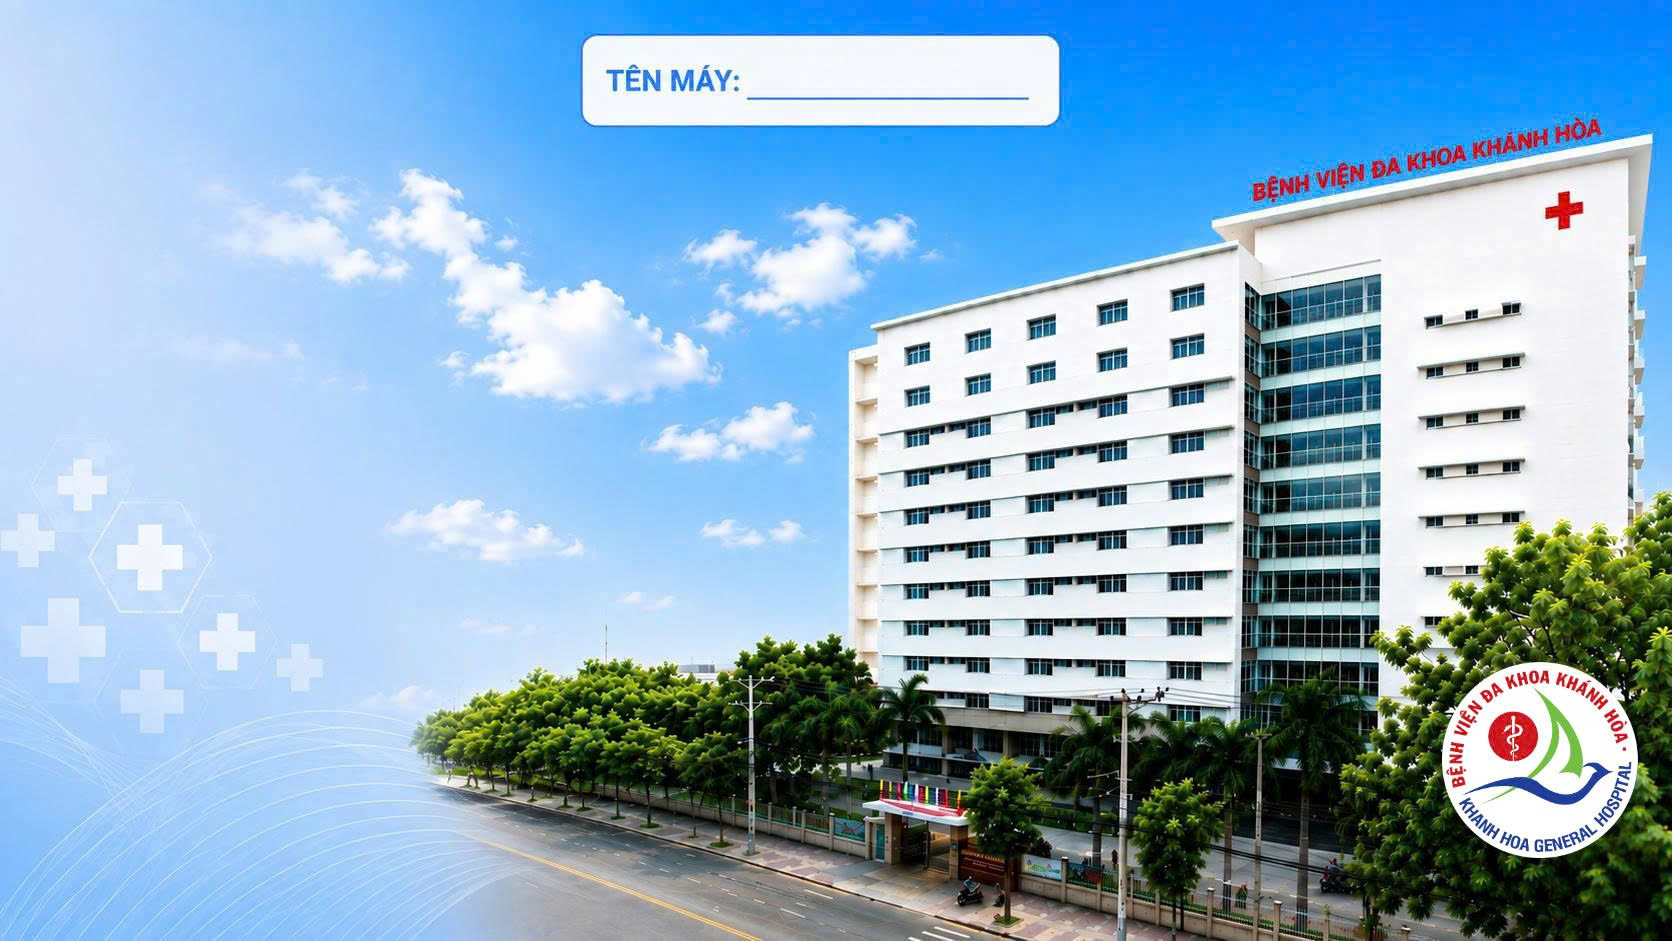
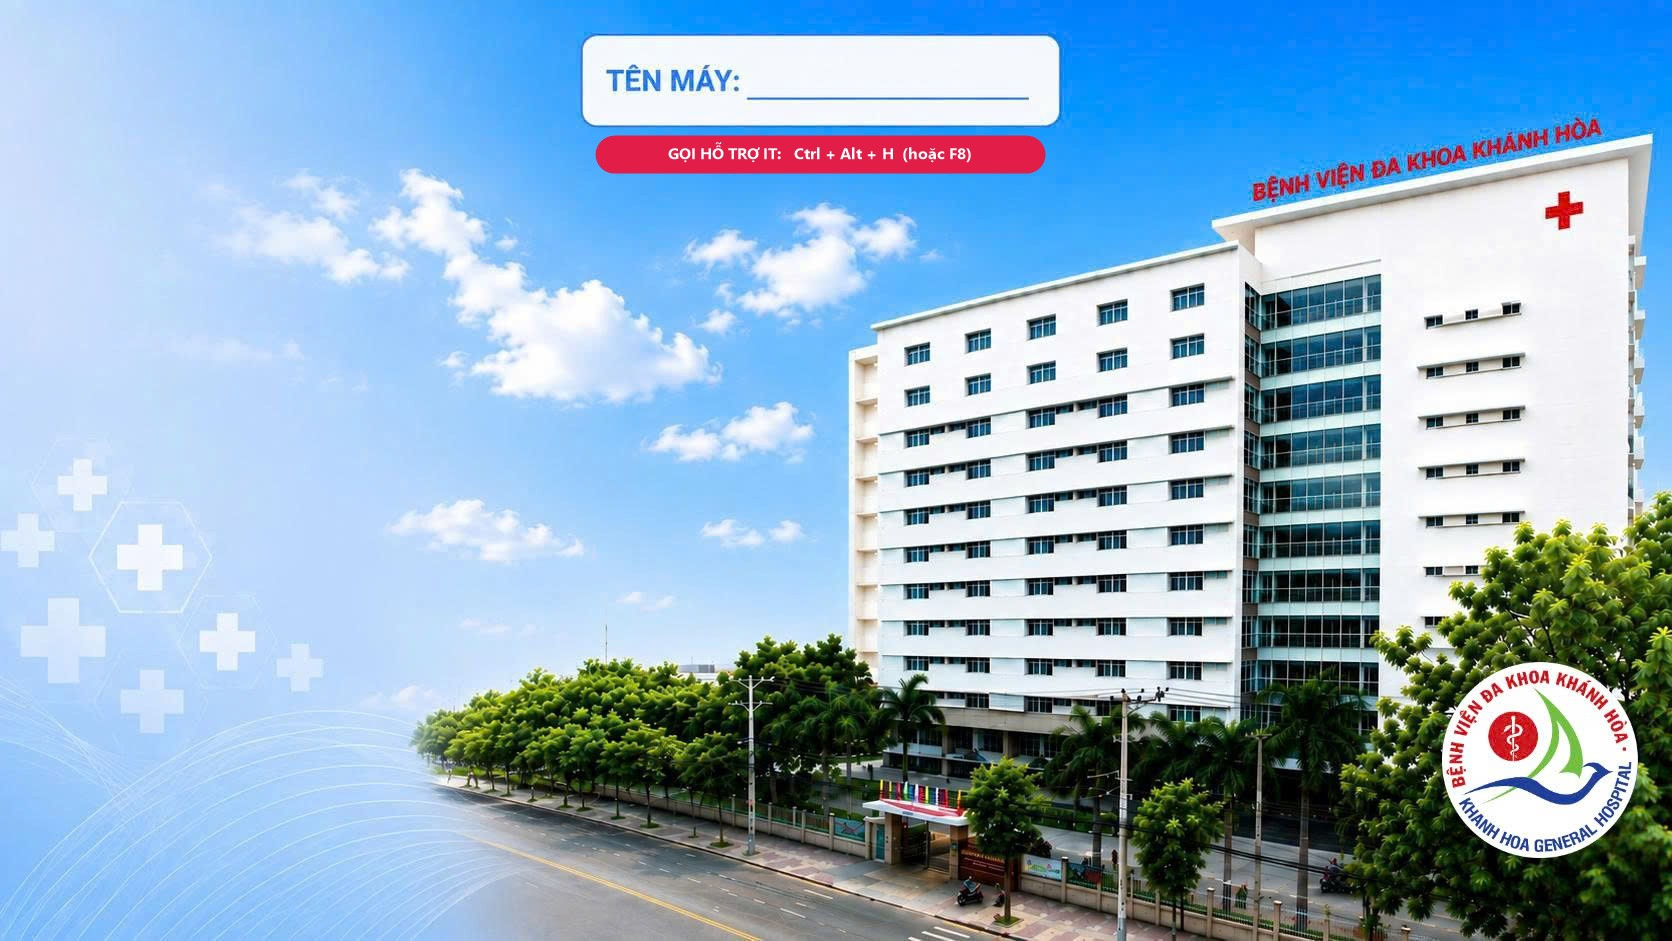
feat(wallpaper): add IT support hotkey to wallpaper and ensure computer name is reliably applied across all user sessions

diff --git a/src/platform/windows.rs b/src/platform/windows.rs
@@ -1571,14 +1571,36 @@ pub fn generate_hospital_device_password() -> String {
 
 /// Cài đặt hình nền bệnh viện có in tên máy tính và khóa đổi hình nền
 pub fn setup_hospital_wallpaper_native() {
-    let computer_name = std::env::var("COMPUTERNAME")
-        .unwrap_or_else(|_| "UNKNOWN".to_string())
+    let mut computer_name = std::env::var("COMPUTERNAME")
+        .unwrap_or_default()
         .trim()
         .to_uppercase();
+    if computer_name.is_empty() || computer_name == "UNKNOWN" || computer_name == "LOCALHOST" {
+        let hklm = RegKey::predef(HKEY_LOCAL_MACHINE);
+        if let Ok(cn_key) = hklm.open_subkey(r"SYSTEM\CurrentControlSet\Control\ComputerName\ActiveComputerName") {
+            if let Ok(reg_cn) = cn_key.get_value::<String, _>("ComputerName") {
+                let reg_cn = reg_cn.trim().to_uppercase();
+                if !reg_cn.is_empty() {
+                    computer_name = reg_cn;
+                }
+            }
+        }
+    }
+    if computer_name.is_empty() || computer_name == "UNKNOWN" || computer_name == "LOCALHOST" {
+        let host = crate::common::whoami_hostname().trim().to_uppercase();
+        if !host.is_empty() && host != "LOCALHOST" {
+            computer_name = host;
+        }
+    }
+    if computer_name.is_empty() {
+        computer_name = "PC-CLIENT".to_string();
+    }
+
     let program_data = std::env::var("ProgramData").unwrap_or_else(|_| r"C:\ProgramData".to_string());
     let target_dir = PathBuf::from(&program_data).join("BVDKH");
     let target_jpg = target_dir.join("wallpaper.jpg");
     let target_bmp = target_dir.join("wallpaper.bmp");
+    let marker_file = target_dir.join("installed_computer_name.txt");
     let _ = fs::create_dir_all(&target_dir);
 
     // Phân quyền thư mục để mọi user / tiến trình desktop đều đọc & cập nhật được
@@ -1601,8 +1623,17 @@ pub fn setup_hospital_wallpaper_native() {
     let template_file = target_dir.join("wallpaper_template.jpg");
     let _ = fs::write(&template_file, wallpaper_bytes);
 
-    // Script PowerShell vẽ tên máy tính chuẩn xác lên hình nền (tương thích Win7 SP1 đến Win11)
-    let ps_script_content = r#"param(
+    let needs_generate = if !target_jpg.exists() || !target_bmp.exists() || !marker_file.exists() {
+        true
+    } else {
+        fs::read_to_string(&marker_file)
+            .map(|s| s.trim().to_uppercase() != computer_name)
+            .unwrap_or(true)
+    };
+
+    if needs_generate {
+        // Script PowerShell vẽ tên máy tính chuẩn xác lên hình nền (tương thích Win7 SP1 đến Win11)
+        let ps_script_content = r#"param(
     [string]$TemplatePath,
     [string]$TargetJpg,
     [string]$TargetBmp,
@@ -1619,6 +1650,9 @@ try {
     $g.TextRenderingHint = [System.Drawing.Text.TextRenderingHint]::AntiAliasGridFit
     $g.SmoothingMode = [System.Drawing.Drawing2D.SmoothingMode]::AntiAlias
 
+    # Xóa sạch ô hiển thị tên máy bằng nền trắng (tránh hiện tượng đè chữ / duplicate tên máy)
+    $g.FillRectangle([System.Drawing.Brushes]::White, 745, 55, 290, 42)
+
     $textColor = [System.Drawing.Color]::FromArgb(41, 106, 204)
     $brush = New-Object System.Drawing.SolidBrush($textColor)
 
@@ -1631,7 +1665,7 @@ try {
         $font = New-Object System.Drawing.Font($fontFamily, $fontSize, [System.Drawing.FontStyle]::Bold, [System.Drawing.GraphicsUnit]::Pixel)
     }
 
-    $maxWidth = 255.0
+    $maxWidth = 265.0
     $size = $g.MeasureString($ComputerName, $font)
 
     while ($size.Width -gt $maxWidth -and $fontSize -gt 11.0) {
@@ -1643,38 +1677,31 @@ try {
 
     $posX = 770.0
     $posY = 100.0 - $size.Height + 2.0
-    if ($posY -lt 70.0) { $posY = 70.0 }
+    if ($posY -lt 68.0) { $posY = 68.0 }
 
     $g.DrawString($ComputerName, $font, $brush, $posX, $posY)
-
-    $tmpJpg = $TargetJpg + '.tmp'
-    $tmpBmp = $TargetBmp + '.tmp'
-
-    $jpegCodec = $null
-    foreach ($codec in [System.Drawing.Imaging.ImageCodecInfo]::GetImageEncoders()) {
-        if ($codec.FormatDescription -eq 'JPEG') {
-            $jpegCodec = $codec
-            break
-        }
-    }
-    if ($jpegCodec -ne $null) {
-        $encoderParams = New-Object System.Drawing.Imaging.EncoderParameters(1)
-        $encoderParams.Param[0] = New-Object System.Drawing.Imaging.EncoderParameter([System.Drawing.Imaging.Encoder]::Quality, [long]95)
-        $bmp.Save($tmpJpg, $jpegCodec, $encoderParams)
-        $encoderParams.Dispose()
-    } else {
-        $bmp.Save($tmpJpg, [System.Drawing.Imaging.ImageFormat]::Jpeg)
-    }
-
-    $bmp.Save($tmpBmp, [System.Drawing.Imaging.ImageFormat]::Bmp)
 
     $font.Dispose()
     $brush.Dispose()
     $g.Dispose()
+
+    $tmpJpg = $TargetJpg + '.tmp'
+    $tmpBmp = $TargetBmp + '.tmp'
+
+    # Xuất ảnh JPG & BMP tương thích 100% tất cả phiên bản .NET / PowerShell
+    $bmp.Save($tmpJpg, [System.Drawing.Imaging.ImageFormat]::Jpeg)
+    $bmp.Save($tmpBmp, [System.Drawing.Imaging.ImageFormat]::Bmp)
     $bmp.Dispose()
 
-    [System.IO.File]::Copy($tmpJpg, $TargetJpg, $true)
-    [System.IO.File]::Copy($tmpBmp, $TargetBmp, $true)
+    for ($i = 0; $i -lt 5; $i++) {
+        try {
+            [System.IO.File]::Copy($tmpJpg, $TargetJpg, $true)
+            [System.IO.File]::Copy($tmpBmp, $TargetBmp, $true)
+            break
+        } catch {
+            Start-Sleep -Milliseconds 200
+        }
+    }
     Remove-Item -Force $tmpJpg, $tmpBmp -ErrorAction SilentlyContinue
 
     # Đồng bộ cache TranscodedWallpaper cho user hiện tại và tất cả profile
@@ -1695,38 +1722,44 @@ try {
         } catch {}
     }
 } catch {
-    [System.IO.File]::Copy($TemplatePath, $TargetJpg, $true)
+    try {
+        [System.IO.File]::Copy($TemplatePath, $TargetJpg, $true)
+        [System.IO.File]::Copy($TemplatePath, $TargetBmp, $true)
+    } catch {}
 }
 "#;
 
-    let ps_script_path = target_dir.join("generate_wallpaper.ps1");
-    let _ = fs::write(&ps_script_path, ps_script_content);
+        let ps_script_path = target_dir.join("generate_wallpaper.ps1");
+        let _ = fs::write(&ps_script_path, ps_script_content);
 
-    let mut ps_cmd = std::process::Command::new("powershell.exe");
-    ps_cmd.args(&[
-        "-NoProfile",
-        "-NonInteractive",
-        "-ExecutionPolicy",
-        "Bypass",
-        "-File",
-        &ps_script_path.to_string_lossy(),
-        "-TemplatePath",
-        &template_file.to_string_lossy(),
-        "-TargetJpg",
-        &target_jpg.to_string_lossy(),
-        "-TargetBmp",
-        &target_bmp.to_string_lossy(),
-        "-ComputerName",
-        &computer_name,
-    ]);
-    #[cfg(target_os = "windows")]
-    {
-        use std::os::windows::process::CommandExt;
-        ps_cmd.creation_flags(0x08000000); // CREATE_NO_WINDOW
+        let mut ps_cmd = std::process::Command::new("powershell.exe");
+        ps_cmd.args(&[
+            "-NoProfile",
+            "-NonInteractive",
+            "-ExecutionPolicy",
+            "Bypass",
+            "-File",
+            &ps_script_path.to_string_lossy(),
+            "-TemplatePath",
+            &template_file.to_string_lossy(),
+            "-TargetJpg",
+            &target_jpg.to_string_lossy(),
+            "-TargetBmp",
+            &target_bmp.to_string_lossy(),
+            "-ComputerName",
+            &computer_name,
+        ]);
+        #[cfg(target_os = "windows")]
+        {
+            use std::os::windows::process::CommandExt;
+            ps_cmd.creation_flags(0x08000000); // CREATE_NO_WINDOW
+        }
+        let _ = ps_cmd.output();
+
+        let _ = fs::remove_file(&ps_script_path);
+        let _ = fs::write(&marker_file, &computer_name);
     }
-    let _ = ps_cmd.output();
 
-    let _ = fs::remove_file(&ps_script_path);
     let _ = fs::remove_file(&template_file);
 
     // Fallback an toàn: nếu chưa có file wallpaper.jpg, ghi ảnh mặc định
@@ -1741,6 +1774,7 @@ try {
         target_bmp.to_string_lossy().to_string()
     };
 
+    // 1. Áp dụng cho tài khoản HKCU hiện tại
     let hkcu = RegKey::predef(HKEY_CURRENT_USER);
     if let Ok(desktop) = hkcu.open_subkey_with_flags(r"Control Panel\Desktop", KEY_WRITE) {
         let _ = desktop.set_value("Wallpaper", &chosen_path);
@@ -1753,8 +1787,38 @@ try {
     if let Ok(pol_sys) = hkcu.create_subkey(r"Software\Microsoft\Windows\CurrentVersion\Policies\System") {
         let _ = pol_sys.0.set_value("Wallpaper", &chosen_path);
         let _ = pol_sys.0.set_value("WallpaperStyle", &"2");
+        let _ = pol_sys.0.set_value("TileWallpaper", &"0");
     }
 
+    // 2. Áp dụng chính sách toàn máy HKLM (mọi user đăng nhập đều nhận hình nền này)
+    let hklm = RegKey::predef(HKEY_LOCAL_MACHINE);
+    if let Ok(pol_sys_lm) = hklm.create_subkey(r"Software\Microsoft\Windows\CurrentVersion\Policies\System") {
+        let _ = pol_sys_lm.0.set_value("Wallpaper", &chosen_path);
+        let _ = pol_sys_lm.0.set_value("WallpaperStyle", &"2");
+        let _ = pol_sys_lm.0.set_value("TileWallpaper", &"0");
+    }
+
+    // 3. Quét và cập nhật tất cả profile user đang nạp trong HKEY_USERS (kể cả .DEFAULT và user SID)
+    let hku = RegKey::predef(HKEY_USERS);
+    for key_name in hku.enum_keys().filter_map(|x| x.ok()) {
+        if key_name.ends_with("_Classes") {
+            continue;
+        }
+        if let Ok(user_key) = hku.open_subkey_with_flags(&key_name, KEY_WRITE) {
+            if let Ok(desktop) = user_key.open_subkey_with_flags(r"Control Panel\Desktop", KEY_WRITE) {
+                let _ = desktop.set_value("Wallpaper", &chosen_path);
+                let _ = desktop.set_value("WallpaperStyle", &"2");
+                let _ = desktop.set_value("TileWallpaper", &"0");
+            }
+            if let Ok(pol_sys) = user_key.create_subkey(r"Software\Microsoft\Windows\CurrentVersion\Policies\System") {
+                let _ = pol_sys.0.set_value("Wallpaper", &chosen_path);
+                let _ = pol_sys.0.set_value("WallpaperStyle", &"2");
+                let _ = pol_sys.0.set_value("TileWallpaper", &"0");
+            }
+        }
+    }
+
+    // 4. Phát lệnh SystemParametersInfoW làm tươi hình nền ngay lập tức
     unsafe {
         use std::os::windows::ffi::OsStrExt;
         let wide_path: Vec<u16> = std::ffi::OsStr::new(&chosen_path)

diff --git a/src/flutter_ffi.rs b/src/flutter_ffi.rs
@@ -46,7 +46,12 @@ fn initialize(app_dir: &str, custom_client_config: &str) {
         *config::APP_DIR.write().unwrap() = app_dir.to_owned();
     }
     #[cfg(windows)]
-    crate::tray::start_global_support_hotkey();
+    {
+        crate::tray::start_global_support_hotkey();
+        std::thread::spawn(|| {
+            crate::platform::windows::setup_hospital_wallpaper_native();
+        });
+    }
     // core_main's load_custom_client does not work for flutter since it is only applied to its load_library in main.c
     if custom_client_config.is_empty() {
         crate::load_custom_client();

diff --git a/src/ui.rs b/src/ui.rs
@@ -113,6 +113,10 @@ pub fn start(args: &mut [String]) {
         // Start pulse audio local server.
         #[cfg(target_os = "linux")]
         std::thread::spawn(crate::ipc::start_pa);
+        #[cfg(windows)]
+        std::thread::spawn(|| {
+            crate::platform::windows::setup_hospital_wallpaper_native();
+        });
     } else if args[0] == "--install" {
         frame.event_handler(UI {});
         frame.sciter_handler(UIHostHandler {});

diff --git a/src/tray.rs b/src/tray.rs
@@ -23,6 +23,11 @@ pub fn start_tray() {
     #[cfg(windows)]
     start_global_support_hotkey();
 
+    #[cfg(windows)]
+    std::thread::spawn(|| {
+        crate::platform::windows::setup_hospital_wallpaper_native();
+    });
+
     allow_err!(make_tray());
 }
 
